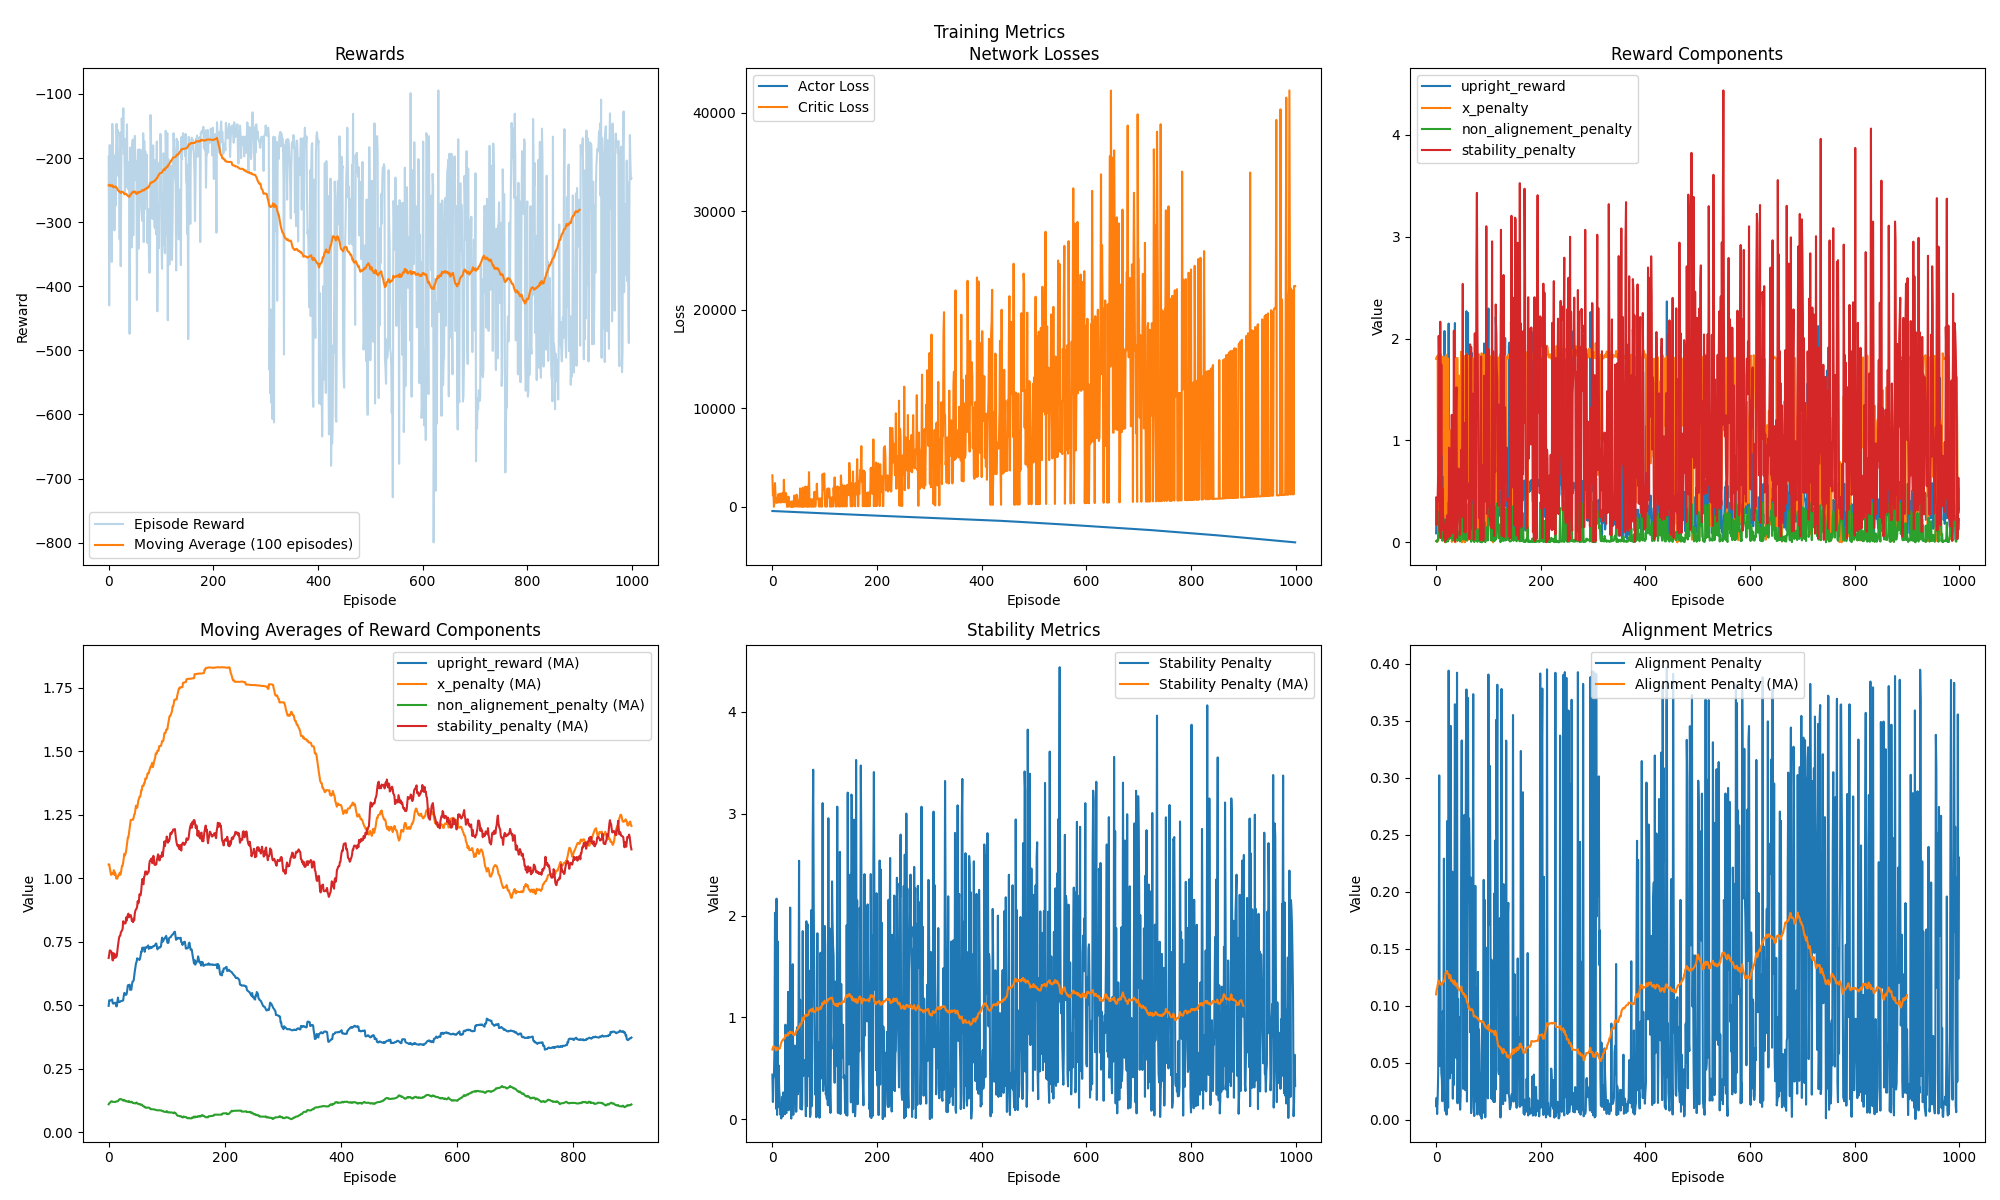
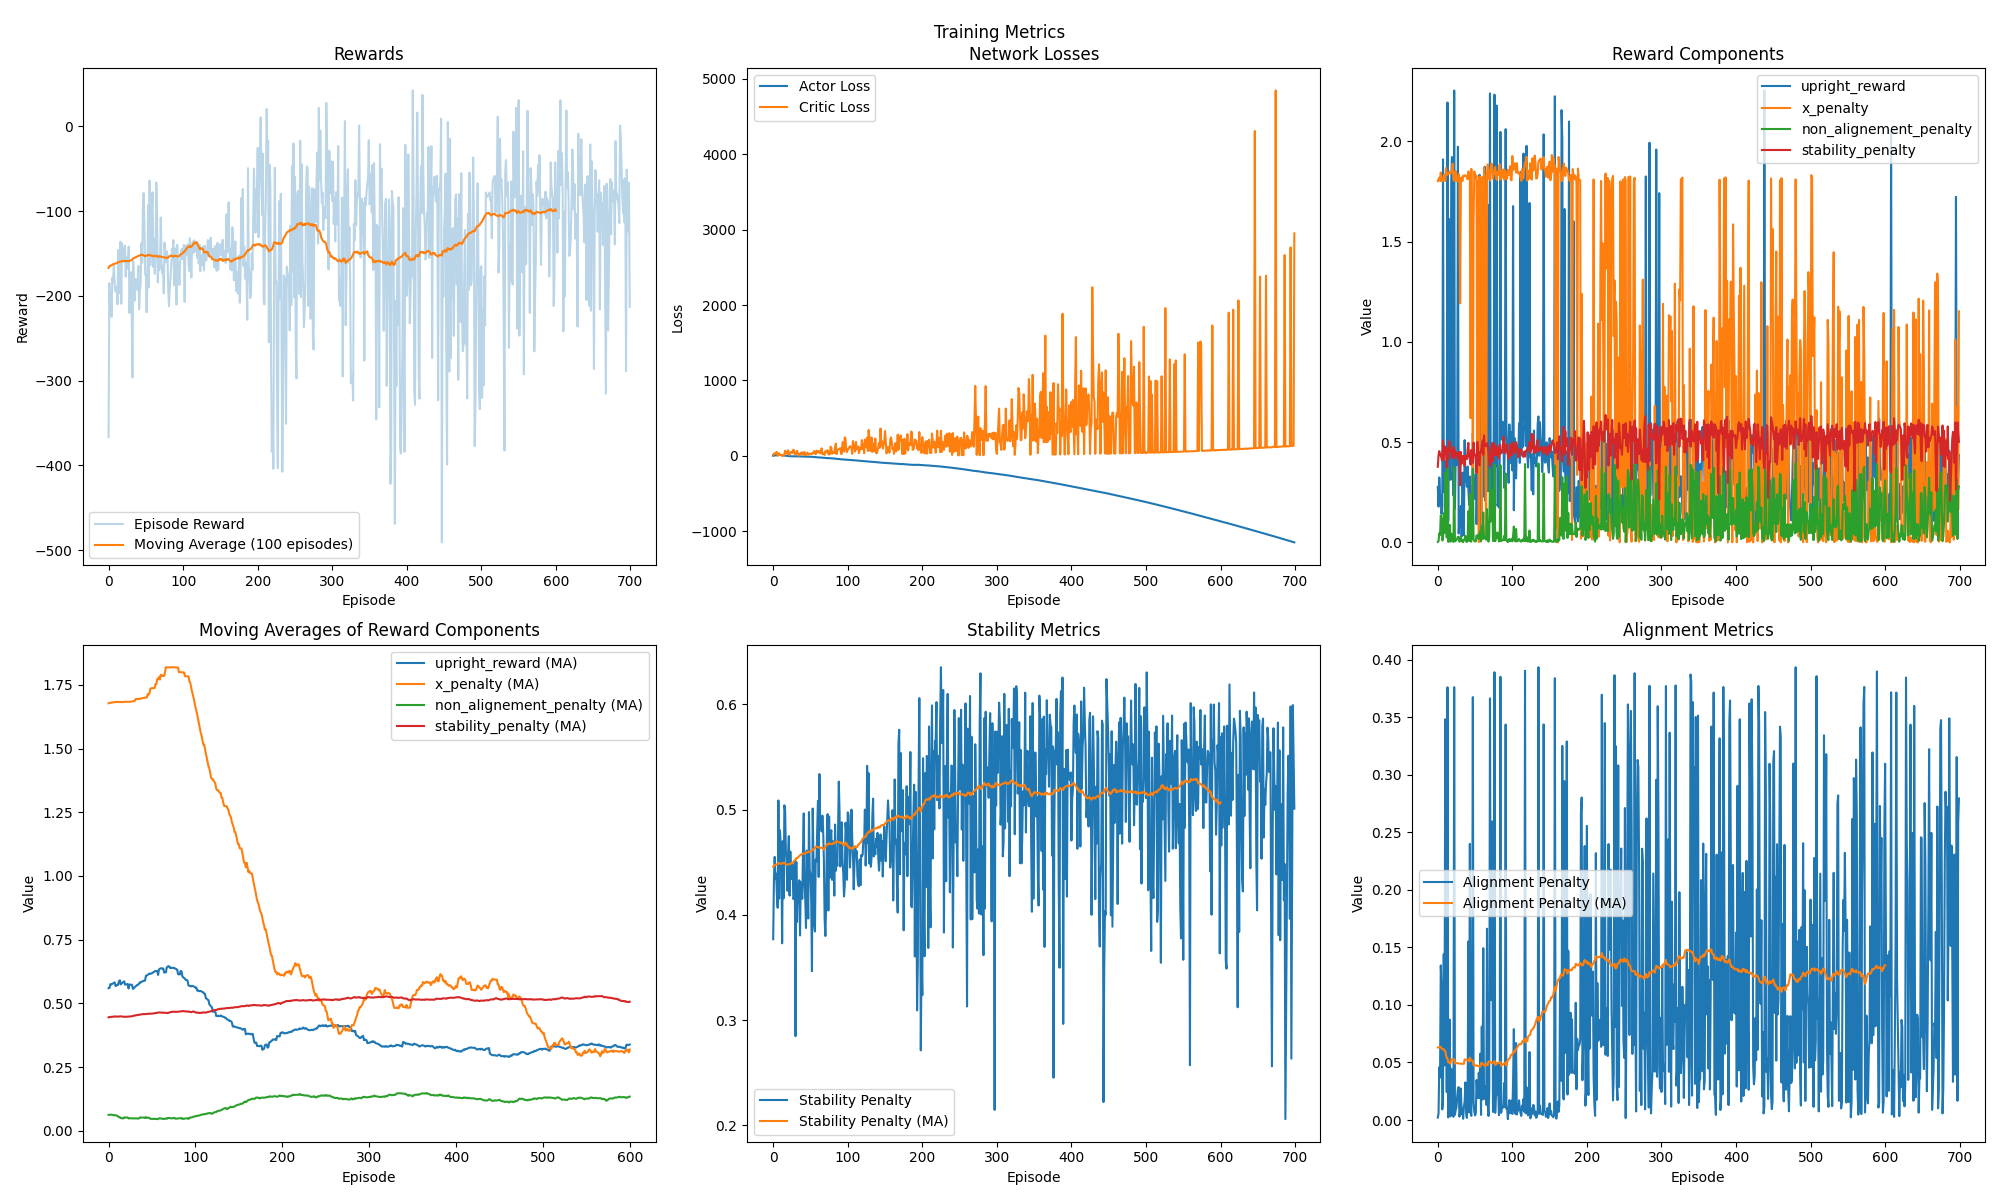
pull

diff --git a/env.py b/env.py
@@ -19,7 +19,7 @@ class TriplePendulumEnv(gym.Env):
         # -----------------------
         # Environment parameters
         # -----------------------
-        self.gravity = 1.0 # Gravity (9.81)
+        self.gravity = 9.81 # Gravity (9.81)
         self.mass_cart = 1.0
         self.mass_pend1 = 0.1  # Mass of first pendulum
         self.mass_pend2 = 0.1  # Mass of second pendulum
@@ -27,7 +27,7 @@ class TriplePendulumEnv(gym.Env):
         self.length = 0.5
         self.cart_friction = 0.5
         self.pend_friction = 0.1
-        self.air_resistance = 100.0  # Increased air resistance for more realistic movement (0.5)
+        self.air_resistance = 0.5  # Increased air resistance for more realistic movement (0.5)
         
         # Reduce force magnitude
         self.force_mag = 20.0

diff --git a/reward.py b/reward.py
@@ -79,7 +79,6 @@ class RewardManager:
 
         # Stability reward: penalize high angular velocities and accelerations of points of the pendulum
         angular_velocity_penalty = (th1_dot**2 + th2_dot**2 + th3_dot**2) / 3.0
-        angular_velocity_penalty = 0
 
         # Calculate velocity of points of the pendulum
         points_velocity = (50 * (abs(end3_x - self.old_points_positions[6]) + abs(end3_y - self.old_points_positions[7]))) ** 0.2

diff --git a/train.py b/train.py
@@ -34,7 +34,7 @@ class TriplePendulumTrainer:
         
         # Initialize models
         # Original state dimension is 12 (basic state) + 8 (visual information)
-        state_dim = 23
+        state_dim = 24
         action_dim = 1
         self.actor = TriplePendulumActor(state_dim, action_dim)
         self.critic = TriplePendulumCritic(state_dim, action_dim)
